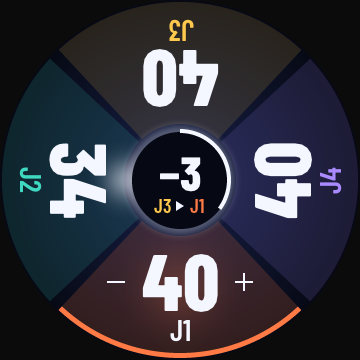
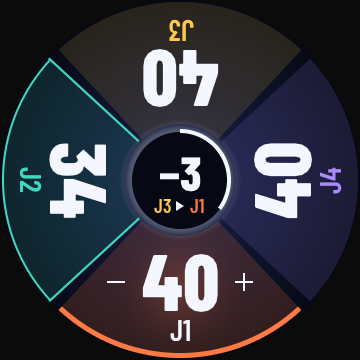
feat(ui): outline the active seat on three sides instead of a hub glow (#5, step 8)

diff --git a/ui/ui.c b/ui/ui.c
@@ -793,9 +793,15 @@ static void draw_arena_light(lv_layer_t *l)
         fx_halo(l, CX + (int)(R_NUM[n] * cosf(a)), CY + (int)(R_NUM[n] * sinf(a)), n == 2 ? 120 : 84, T->seat[U.sel],
                 LV_OPA_20); /* kept low: white numerals need 7:1 over it */
     }
-    { /* the hub leans its light toward the active seat: a soft glow on its edge, no beam across the seat */
-        float a = seat_angle(g->active) * (float)M_PI / 180.f;
-        fx_halo(l, CX + (int)((HUB_R + 6) * cosf(a)), CY + (int)((HUB_R + 6) * sinf(a)), 44, T->ink, LV_OPA_50);
+    { /* whose turn it is: a thin line of the seat's light along the three sides of its zone (the two edges and the
+       * rim). The selected seat keeps the thick rim band, so the two marks read apart and stack on one seat. */
+        float a0 = seat_angle(g->active) - span / 2 + gap, a1 = a0 + span - 2 * gap;
+        arc(l, r_out, a0, a1, T->rule_w, T->seat[g->active], LV_OPA_COVER);
+        for (int k = 0; k < 2; k++) {
+            float a = (k ? a1 : a0) * (float)M_PI / 180.f;
+            line(l, CX + r_in * cosf(a), CY + r_in * sinf(a), CX + r_out * cosf(a), CY + r_out * sinf(a),
+                 T->seat[g->active], LV_OPA_COVER);
+        }
     }
     for (int i = 0; i < n; i++) {
         bool sel = i == U.sel, lost = sd_player_lost(g, (uint8_t)i);

diff --git a/DESIGN.md b/DESIGN.md
@@ -194,7 +194,7 @@ components:
 
 **Creative North Star: "The Well of Light"**
 
-The dial is the knob's well of light seen from above, as in the logo. The hub at the centre is the light source and everything is lit from the centre outward: a dark ground that falls from a bluish centre to a near-black rim, white ink, and seat hues that exist only as light (a tint on the seat's glass, a soft halo behind its numeral, the colour of its label). A pending change is light gathering: an arc of white light runs once around the ring in exactly 800 ms, and when it closes the change is committed. The active player is the one the light leans toward: a soft glow on the hub's edge that leans toward that seat. This is the Lumineux theme, the default (`UI_THEME_DEFAULT`).
+The dial is the knob's well of light seen from above, as in the logo. The hub at the centre is the light source and everything is lit from the centre outward: a dark ground that falls from a bluish centre to a near-black rim, white ink, and seat hues that exist only as light (a tint on the seat's glass, a soft halo behind its numeral, the colour of its label). A pending change is light gathering: an arc of white light runs once around the ring in exactly 800 ms, and when it closes the change is committed. The active player's zone is outlined: a thin line of that seat's hue along the three sides of its zone. This is the Lumineux theme, the default (`UI_THEME_DEFAULT`).
 
 Two themes share one layout and one set of gestures. Booster, the wrapper theme shipped first, is kept as theme 2: saturated seat fields on wrapper black, a silver foil that seals a pending change, straight 2 px rules, no light. Each canonical section below describes Lumineux first, then what Booster does differently under "Theme 2: Booster". A rule stated for one theme binds that theme only; rules marked shared bind both. `ui_set_theme(theme, ground)` switches at run time and the firmware reads both values at start; the settings screen that lets the user choose is not built yet.
 
@@ -205,7 +205,7 @@ Rejected by the direction contract: flat colour quadrants, a thin progress ring 
 **Key Characteristics:**
 - Two themes, one layout, one set of gestures. Lumineux is the default; Booster is theme 2.
 - Lumineux: a radial dark ground, white ink, and seat hues used as light on glass, never as paint.
-- The hub is the light source: turn marker, pending value and undo all live there, and its glow leans toward the active seat.
+- The hub is the light source: turn marker, pending value and undo all live there, and the active seat's zone is outlined in its hue.
 - Pending is always an arc or band whose drawn extent is the elapsed share of the 800 ms commit delay.
 - Condensed ExtraBold numerals and SemiBold uppercase labels, kerning off, in both themes.
 - A seat is never identified by hue alone: every seat carries its J1–J4 label and its position.
@@ -309,7 +309,7 @@ Booster is completely flat: no shadows, glows or blur. Depth is field versus gro
 Lumineux is round. Every button is a rounded-full pill, home chips are circles, the hub is a disc of radius 48, and the round bezel clips everything else. Strokes are thin white lines: 1 px for the knob ring circle and unlit glass borders, 2 px for the detent ticks, the +/− marks, the focus rule, the journal rule and a lit pill's border. The only heavier strokes are the two pending arcs (4 px on the hub, 5 px on the knob ring), which have to be seen from across the table.
 
 - **Knob ring**: a 1 px circle at radius 170 with 16 ticks (every 22.5°, 2 px, from radius 170 to 177), all in ink at 40 %. It is the logo's knurl. Present on Solo, the player sheet and the game-over screen.
-- **Active glow**: a white halo of radius 44 at 50 %, centred 6 px outside the hub edge on the active seat's axis. It replaced three rays across the seat, which the owner rejected on 2026-11-13 (two white strokes flanking the numeral).
+- **Active outline**: a 2 px line in the active seat's hue along the three sides of its zone (both edges from the hub side to the rim, and the rim arc). The selected seat keeps its 5 px rim band, so the two marks read apart and stack when one seat is both. Asked by the owner on 2026-11-13, after three rays and then a hub glow were rejected.
 - **Pending arcs**: drawn clockwise from 12 o'clock (−90°) to −90° + 360° × progress. On the hub: 4 px at radius 51, just outside the glass edge. On the knob ring: 5 px at radius 172.
 - **Line icons**: 40×40 A8 masks drawn from plain strokes (2.5 px, round caps), no fill, tinted in ink. Eight ship (settings, players, resume, game type, undo, turn, wifi, room); the current screens use one, undo, in the hub.
 - **Logo**: the owner-approved line-art mark, as two ink-tinted A8 masks (237×195 on the boot screen, 72×60 at the top of the home).
@@ -360,7 +360,7 @@ Lumineux components first; Booster's equivalents are listed at the end.
 - **At rest:** a disc of the rim colour inside the glowing ring (ink, 70 %). "TOUR n" in Label, ink, over the active seat's J# in Headline Hub in that seat's hue. Tap = next turn.
 - **Pending:** the glow drops to 30 % and the 4 px light arc closes clockwise at radius 51 over exactly the commit delay. The delta is shown in Headline Hub, ink, as its effect on life (commander damage reads −5), with "= total" in Label below. Every drag A→B is an attack and shows the two J#, each in its own seat hue, around a drawn ink triangle. Commander damage adds a CMDT tag (Label Small) above the delta, placed at y − 31 with the delta lowered to y − 3 so the tag stays clear of the ring. A hub tap toggles attack ↔ commander damage (restarting the arc), or commits a non-attack delta at once.
 - **Undo (4 s after any commit):** the hub becomes a focused round glass button with a white halo. It shows the undo line icon over the amount it reverses in Row, or "J1 › J2" after a pass. It carries no word, so players who see the hub upside down can still read it. When a hit defeated the active player and passed the turn automatically, it shows that hit; one tap reverts both.
-- **Active seat:** the hub's glow leans toward it (see Shapes) and the hub names it. The light moves clockwise with Next and skips defeated seats. Solo has no turn.
+- **Active seat:** its zone is outlined (see Shapes) and the hub names it. The outline moves clockwise with Next and skips defeated seats. Solo has no turn.
 
 **The Hub-Only Repaint Rule.** Shared. Arena seats show committed values. While only the pending value, the arc or the undo state changes, invalidate the hub box and never the turned seat layers. The box is the hub radius plus 18 px in Lumineux (the glow passes the edge) and plus 6 px in Booster.
 

diff --git a/doc/roadmap/5-direction-lumineuse.md b/doc/roadmap/5-direction-lumineuse.md
@@ -101,7 +101,7 @@ Aucune (plan #1 livré). Bloque #6, #7 et #2 (leurs écrans sont construits dans
 | Siège sélectionné | Verre à peine plus clair (46 contre 36 sur 255) et bande de 5 px en pleine teinte sur le bord du secteur | Un verre plus clair faisait passer le chiffre blanc sous 7:1 sur le siège or ; la bande signale la sélection sans toucher au contraste |
 | Halos sous les titres | Fiche joueur et fin de partie à 30 %, pastilles de l'accueil à 20 % | Signalé par l'agent de documentation : titres blancs estimés entre 2,8:1 et 5,3:1 avant correction. Les contrastes sur halo sont estimés par calcul, pas mesurés |
 | Fin de la pastille d'annulation | Redessin complet en thème lumineux | Son halo dépasse la zone du moyeu ; un redessin partiel l'aurait laissé à l'écran (invisible sur PC, où chaque capture redessine tout) |
-| Joueur actif (retouche) | Une lueur blanche sur le bord du moyeu, du côté du siège actif ; plus de rayons en travers du siège | Opérateur 2026-11-13 : les deux traits blancs autour du chiffre ne plaisent pas |
+| Joueur actif (retouche) | Un liseré fin (2 px) de la couleur du siège sur les trois côtés de sa zone ; le siège sélectionné garde sa bande épaisse sur le bord. Ni rayons ni lueur blanche | Opérateur 2026-11-13 : les rayons puis la lueur blanche écartés, liseré proposé par l'opérateur |
 | Accueil (retouche) | Radial, inspiré de la référence : Nouvelle partie au centre, Reprendre « T n \| J n » en bas, Réglages / Héberger / Rejoindre affichés mais atténués et inactifs ; pas de pastille Type de jeu | Opérateur 2026-11-13 ; les trois boutons inactifs reçoivent leur destination dans #2 et les lots 2/3 |
 | Nouvelle partie (retouche) | Après « Nouvelle partie » : le format, puis le nombre de joueurs. L'étape « jeu » est sautée tant qu'il n'existe qu'un jeu (Magic) | Opérateur 2026-11-13 (jeu puis format) ; un choix à une seule entrée coûterait un tap par partie |
 | Formats (retouche) | 10 profils JSON : Commander (40 PV, 2–4), Commander 1v1 (30 PV), Commander 2HG (60 PV par équipe, poison 15, un siège = une équipe), Duel Commander (20 PV, sans dégâts de commandant), puis Standard, Pioneer, Modern, Legacy, Pauper, Peasant (20 PV, duel, poison 10, aucune mention de commandant) | Tableaux fournis par l'opérateur 2026-11-13 |
@@ -317,6 +317,7 @@ grep -c "fx_ray" /srv/dev/mtg-dial/ui/ui.c; grep -rc "S_OFF\|S_PROFILE_SUB_FMT" 
 | 2026-11-13 | T8.5 firmware | `build_exit=0`, `0` | `build_exit=0`, `0` | ✅ PASS |
 | 2026-11-13 | T8.6 contrôle visuel (8 images) | voir T8.6 | les 8 images conformes ; lueur du côté du joueur actif mesurée sur 08c et 15 | ✅ PASS |
 | 2026-11-13 | 2ᵉ retouche de l'accueil : T8.1, T8.2, T8.4, T8.5 et T7.4 rejoués | 6/6 deux fois, `33/33`, `26/26`, `0`, `build_exit=0`, `0`, `generateur_ok` | identique | ✅ PASS (rejoués par l'exécuteur, même contexte ; pas de vérificateur indépendant pour cette retouche d'apparence) |
+| 2026-11-13 | 3ᵉ retouche (liseré du joueur actif) : T8.1, T8.2, T8.4, T8.5 rejoués | 6/6 deux fois, `33/33`, `26/26`, `0`, `build_exit=0`, `0` | identique | ✅ PASS (rejoués par l'exécuteur, même contexte) |
 
 ## Journal de session
 
@@ -350,3 +351,4 @@ grep -c "fx_ray" /srv/dev/mtg-dial/ui/ui.c; grep -rc "S_OFF\|S_PROFILE_SUB_FMT" 
 - 📝 Retouches demandées par l'opérateur à la validation → étape 8 : lueur du joueur actif à la place des rayons, accueil radial, écran « Nouvelle partie », 10 formats. Campagne T8 : PASS (vérificateur indépendant).
 - 📋 Prochain : ✅ Validation par l'opérateur sur `.impeccable/review/contact-sheet.png`, puis clôture
 - 📝 2ᵉ retouche de l'accueil (opérateur) : nom en haut, logo + START au centre, icône curseurs pour les réglages.
+- 📝 3ᵉ retouche (opérateur) : le joueur actif est désigné par un liseré sur les trois côtés de sa zone.
